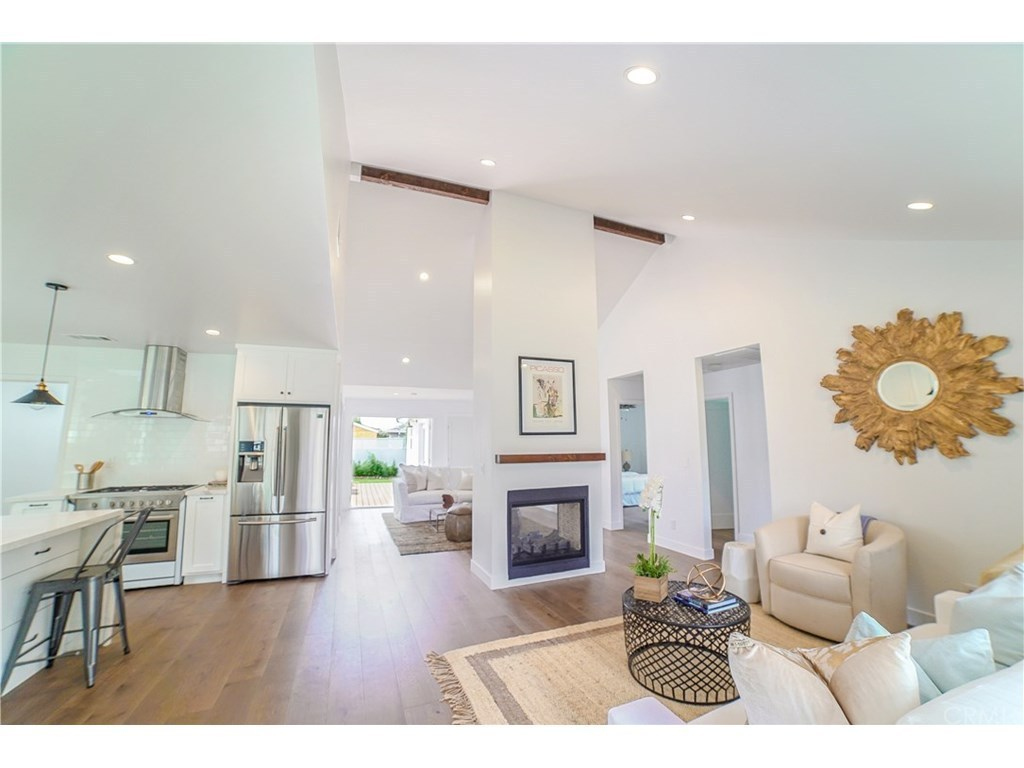
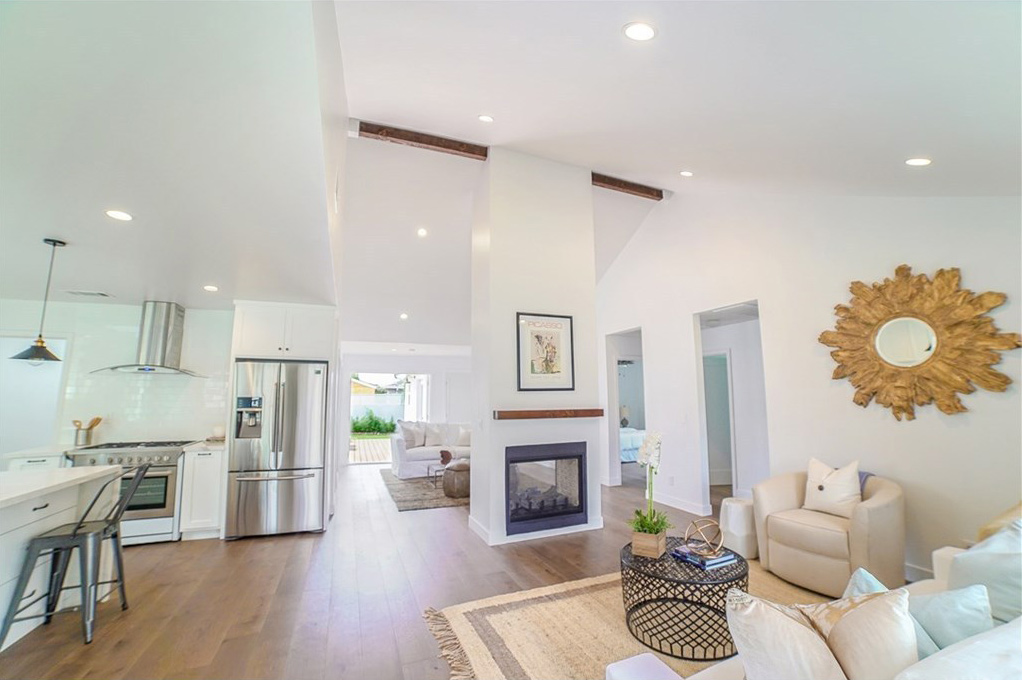
added image carousel

diff --git a/index.html b/index.html
@@ -40,21 +40,47 @@
       </div>
       <!-- SIDE NAV -->
       <ul class="side-nav" id="mobile-nav">
-        <h5 class="blue-grey darken-3 center">HMP Architecture</h5>
+        <h5 class="blue-grey darken-3 center white-text">HMP Architecture</h5>
         <div class="divider"></div>
         <li><a href="#home" >Home</a></li>
         <li><a href="#about">About</a></li>
         <li><a href="#projects">Projects</a></li>
         <li><a href="#contact">Contact</a></li>
       </ul>
-      <!-- SHOWCASE -->
-      <div class="showcase container">
+    </div>
+  </section>
+      
+    <!-- CONTENT SLIDER CAROUSEL-->
+  <section class="carousel-container">
+
+    <div class='carousel carousel-slider center' data-indicators='true'>
+      <a href="#one!" class="carousel-item"><img src='img/nardian-way2.jpg'></a>
+      <a href="#two!" class="carousel-item"><img src='img/nardian-way3.jpg'></a>
+      <a href="#three!" class="carousel-item"><img src='img/nardian-way5.jpg'></a>
+      <a href="#four!" class="carousel-item"><img src='img/nardian-way7.jpg'></a>
+      <a href="#five!" class="carousel-item"><img src='img/mills_residence2.jpg'></a>
+
+      <div class="next blue"><i class="material-icons large">navigate_next</i></div>
+      <div class="prev blue"><i class="material-icons large">navigate_before</i></div>
+
+      <!-- <div class='carousel-item blue white-text' href="#one!">
+        <a><img src="img/nardian-way2.jpg"></a>
+        <h2>Nardian Way</h2>
+        <p>Residential renovation</p>
+        <div class='carousel-fixed-item center'>
+          <a class='btn white black-text'>see more</a>
+        </div>
+      </div> -->
+
+    </div>
+  </section> 
+
+      <!-- SHOWCASE  DELETED-->
+      <!-- <div class="showcase container">
         <div class="row">
           <div class="col s12 main-text">
             <h4>Architectural design</h4>
-            <!-- <h2>The right place to start</h2> -->
-            <!-- <p class="flow-text">Take your project to next level</p> -->
-            <br>
+
             <a href="#projects" class="btn btn-large white black-text">See Projects</a>
             <br>
             <div class="row">
@@ -64,15 +90,12 @@
             </div>
           </div>
         </div>
-       
-      </div>
-    </div>
-  </section>
+      </div> -->
 
 
   <!-- SECTION: ABOUT -->
 
-  <section id='about' class="section section-bout grey lighten-3 center scrollspy">
+  <section id='about' class="section section-about grey lighten-3 center scrollspy">
     <div class="container">
       <h3>About Heidi M. Puskar Architecture</h3>
       <p class='flow-text' >
@@ -125,18 +148,21 @@
   <div class="container-box">
     <h3 class='center'> <span class='white-text'> Selected Projects</span></h3>
       <div class="row">
+
+        <!-- PROJECT ONE -->
         <div class="col s12 m4">
           <div class="card ste z-depth-3">
             <div class="card-image ">
-              <img class='materialboxed responsive-img' src='img/millis_residence1.jpg' alt="Mills Residence">
+              <img class='materialboxed responsive-img' src='img/mills_residence2.jpg' alt="Mills Residence">
               <span class="card-title">Mills Residence</span>
             </div>  
             <div class="card-content">
-                <p>New residential construction. <br>
+              <p>New residential construction. <br>
                   Frazier Park, CA</p>
-              </div>
+            </div>
           </div>
         </div>
+
         <div class="col s12 m4 sample">
           <div class="card ste z-depth-3">
             <div class="card-image">
@@ -149,6 +175,7 @@
             </div>
           </div>
         </div>
+
         <div class="col s12 m4 sample">
           <div class="card ste z-depth-3">
             <div class="card-image">
@@ -162,6 +189,7 @@
           </div>
         </div>
       </div>
+
       <div class="row">
         <div class="col s12 m4 sample">
           <div class="card ste z-depth-3">
@@ -175,6 +203,7 @@
               </div>
           </div>
         </div>
+
         <div class="col s12 m4 sample">
           <div class="card ste z-depth-3">
             <div class="card-image">
@@ -187,10 +216,11 @@
             </div>
           </div>
         </div>
+
         <div class="col s12 m4 sample">
           <div class="card ste  z-depth-3">
             <div class="card-image">
-              <img class='materialboxed responsive-img' src='img/howl-moon1.jpg' alt="How Moon">
+              <img class='materialboxed responsive-img' src='img/howl-moon1.jpg' alt="Howl at the  Moon">
               <span class="card-title">Howl at the Moon</span>
             </div>
             <div class="card-content">
@@ -199,9 +229,50 @@
             </div>
           </div>
         </div>
+
+        <div class="row">
+            <div class="col s12 m4 sample">
+              <div class="card ste z-depth-3">
+                <div class="card-image ">
+                  <img class='materialboxed responsive-img' src='img/redwood_studios2.jpg' alt="redwood">
+                  <span class="card-title">Redwood Studios</span>
+                </div>  
+                <div class="card-content">
+                    <p> Old warehouse turned into tenant spaces. <br>
+                      Marina Del Rey, CA</p>
+                  </div>
+              </div>
+            </div>
+    
+            <div class="col s12 m4 sample">
+              <div class="card ste z-depth-3">
+                <div class="card-image">
+                  <img class='materialboxed responsive-img' src='img/mills_residence3.jpg' alt="lili-bleu">
+                  <span class="card-title">Malott residence</span>
+                </div>
+                <div class="card-content">
+                  <p>2nd story addition and new garage <br>
+                    Lomita, CA</p>
+                </div>
+              </div>
+            </div>
+    
+            <div class="col s12 m4 sample">
+              <div class="card ste  z-depth-3">
+                <div class="card-image">
+                  <img class='materialboxed responsive-img' src='img/ridge-route-museum.jpg' alt="Howl at the  Moon">
+                  <span class="card-title">Ridge Route Museum</span>
+                </div>
+                <div class="card-content">
+                  <p>Ridge Route Museum gas station <br>
+                    Frazier Park, CA</p>
+                </div>
+              </div>
+            </div>
+
+
       </div>
-  
-    </div>
+      </div>
   </section>
   
 <!-- <section id='projects' class="section section-testimonials blue white-text center scrollspy">
@@ -313,6 +384,30 @@
     </div>
   </footer>
 
+
+<!-- SECTON MODALS -->
+
+<button data-target="img-modal" class="btn modal-trigger" 
+onClick="$('.carousel').carousel('set', 2);
+
+">Modal</button>
+
+<div id="img-modal" class="modal">
+  <div class="modal-content">
+    <div class="carousel carousel-slider center">
+      <a class="carousel-item responsive-img"><img src="http://www.freeimageslive.com/galleries/objects/general/pics/objects00290.jpg"></a>
+      <a class="carousel-item responsive-img"><img src="http://www.freeimageslive.com/galleries/objects/general/pics/objects00383.jpg"></a>
+      <a class="carousel-item responsive-img"><img src="http://www.freeimageslive.com/galleries/objects/general/pics/objects00445.jpg"></a>
+      <a class="carousel-item responsive-img"><img src="http://www.freeimageslive.com/galleries/objects/general/pics/objects00448.jpg"></a>
+      <a class="carousel-item responsive-img"><img src="http://www.freeimageslive.com/galleries/objects/general/pics/objects00453.jpg"></a>
+    </div>
+  </div>
+</div>
+
+
+
+<!-- SCRIPTS FROM HERE TO THE END -->
+
   <!--Import jQuery before materialize.js-->
   <script type="text/javascript" src="https://code.jquery.com/jquery-3.2.1.min.js"></script>
   <script src="jquery.matchHeight.js" type="text/javascript"></script>
@@ -321,12 +416,41 @@
 
   <script>
     $(document).ready(function () {
+      // MODAL
+      $('.modal').modal();
 
       // Init Sidenav
       $('.button-collapse').sideNav();
 
       //scrollspy
       $('.scrollspy').scrollSpy();
+
+      // Carousel
+      $('.carousel-slider').carousel
+        ({  
+          fullWidth: true,
+          indicators:true,
+          // height:625.5,  // define your height here
+          transition:500,
+          interval:6000,
+        });
+      $('.prev').click(function(){
+        $('.carousel').carousel('prev');
+      });
+      $('.next').click(function(){
+        $('.carousel').carousel('next');
+      });
+
+      //MODAL
+      var elems = document.querySelectorAll('.modal');
+      var instances = M.Modal.init(elems, {
+        'onOpenEnd': initCarouselModal
+      });
+      function initCarouselModal() {
+          var elems = document.querySelectorAll('.carousel');
+          var instances = M.Carousel.init(elems, {'fullWidth': true});
+          instances[0].set(2);
+      }
 
       //scrollfire
       const options = [
@@ -347,6 +471,7 @@
       ];
       Materialize.scrollFire(options);
 
+      //MAPS
       const position = [34.744461, -118.387017];
       const centerPosition= [34.744461, -118.387017];
 

diff --git a/main.css b/main.css
@@ -9,17 +9,47 @@
 }
 
 .main-header {
-  background: url(../img/nardian-way2.jpg);
-  background-size: cover;
+  min-height: 60px; 
+  /* background: url(../img/nardian-way2.jpg); */
+  /* background-size: cover;
+  height: 60px;
   background-position: center;
-  height: 100vh;
-  min-height: 600px;
   color: #fff; 
-  position: relative;
+  /* position: relative; */
 }
 
 .main-header .showcase {
   padding-top: 110px;
+}
+
+.carousel-container {
+  /* background-size: cover;
+  /* background-position: center; */
+  /* min-height: 90vh; */
+  /* min-height: 600px; */
+  /* color: #fff;  */ 
+  /* position: relative; */
+}
+
+.carousel .carousel-item>img {
+  min-height: 900px;
+  /* width:100%;  */
+  min-width: 100%;
+  max-width: none;
+}
+
+.next, .prev{
+  position: absolute;
+  top: 45%;
+  color: white;
+  cursor: pointer;
+}
+.prev {
+  left: 5px;
+}
+
+.next {
+  right: 5px;
 }
 
 .scroll-icon {
@@ -69,6 +99,7 @@
 .page-footer {
   margin-top: 10px;
 }
+
 
 #googlemap {
   position: absolute;

diff --git a/README.md b/README.md
@@ -5,12 +5,12 @@ Palos Verdes, California
 2019
 
 TODO: 
- [x] Transfer domain
- [x] Post site online
+* [x] Transfer domain
+* [x] Post site online
 
- [ ] Contact Form functionality
- [ ] Add more photos
- [ ] Create carousel - front page
- [ ] Nav Button rebound
- [x] favicon 
- [ ] celebrate 🥂
+* [ ] Contact Form functionality
+* [ ] Add more photos
+* [ ] Create carousel - front page
+* [ ] Nav Button rebound
+* [x] favicon 
+* [ ] celebrate 🥂
